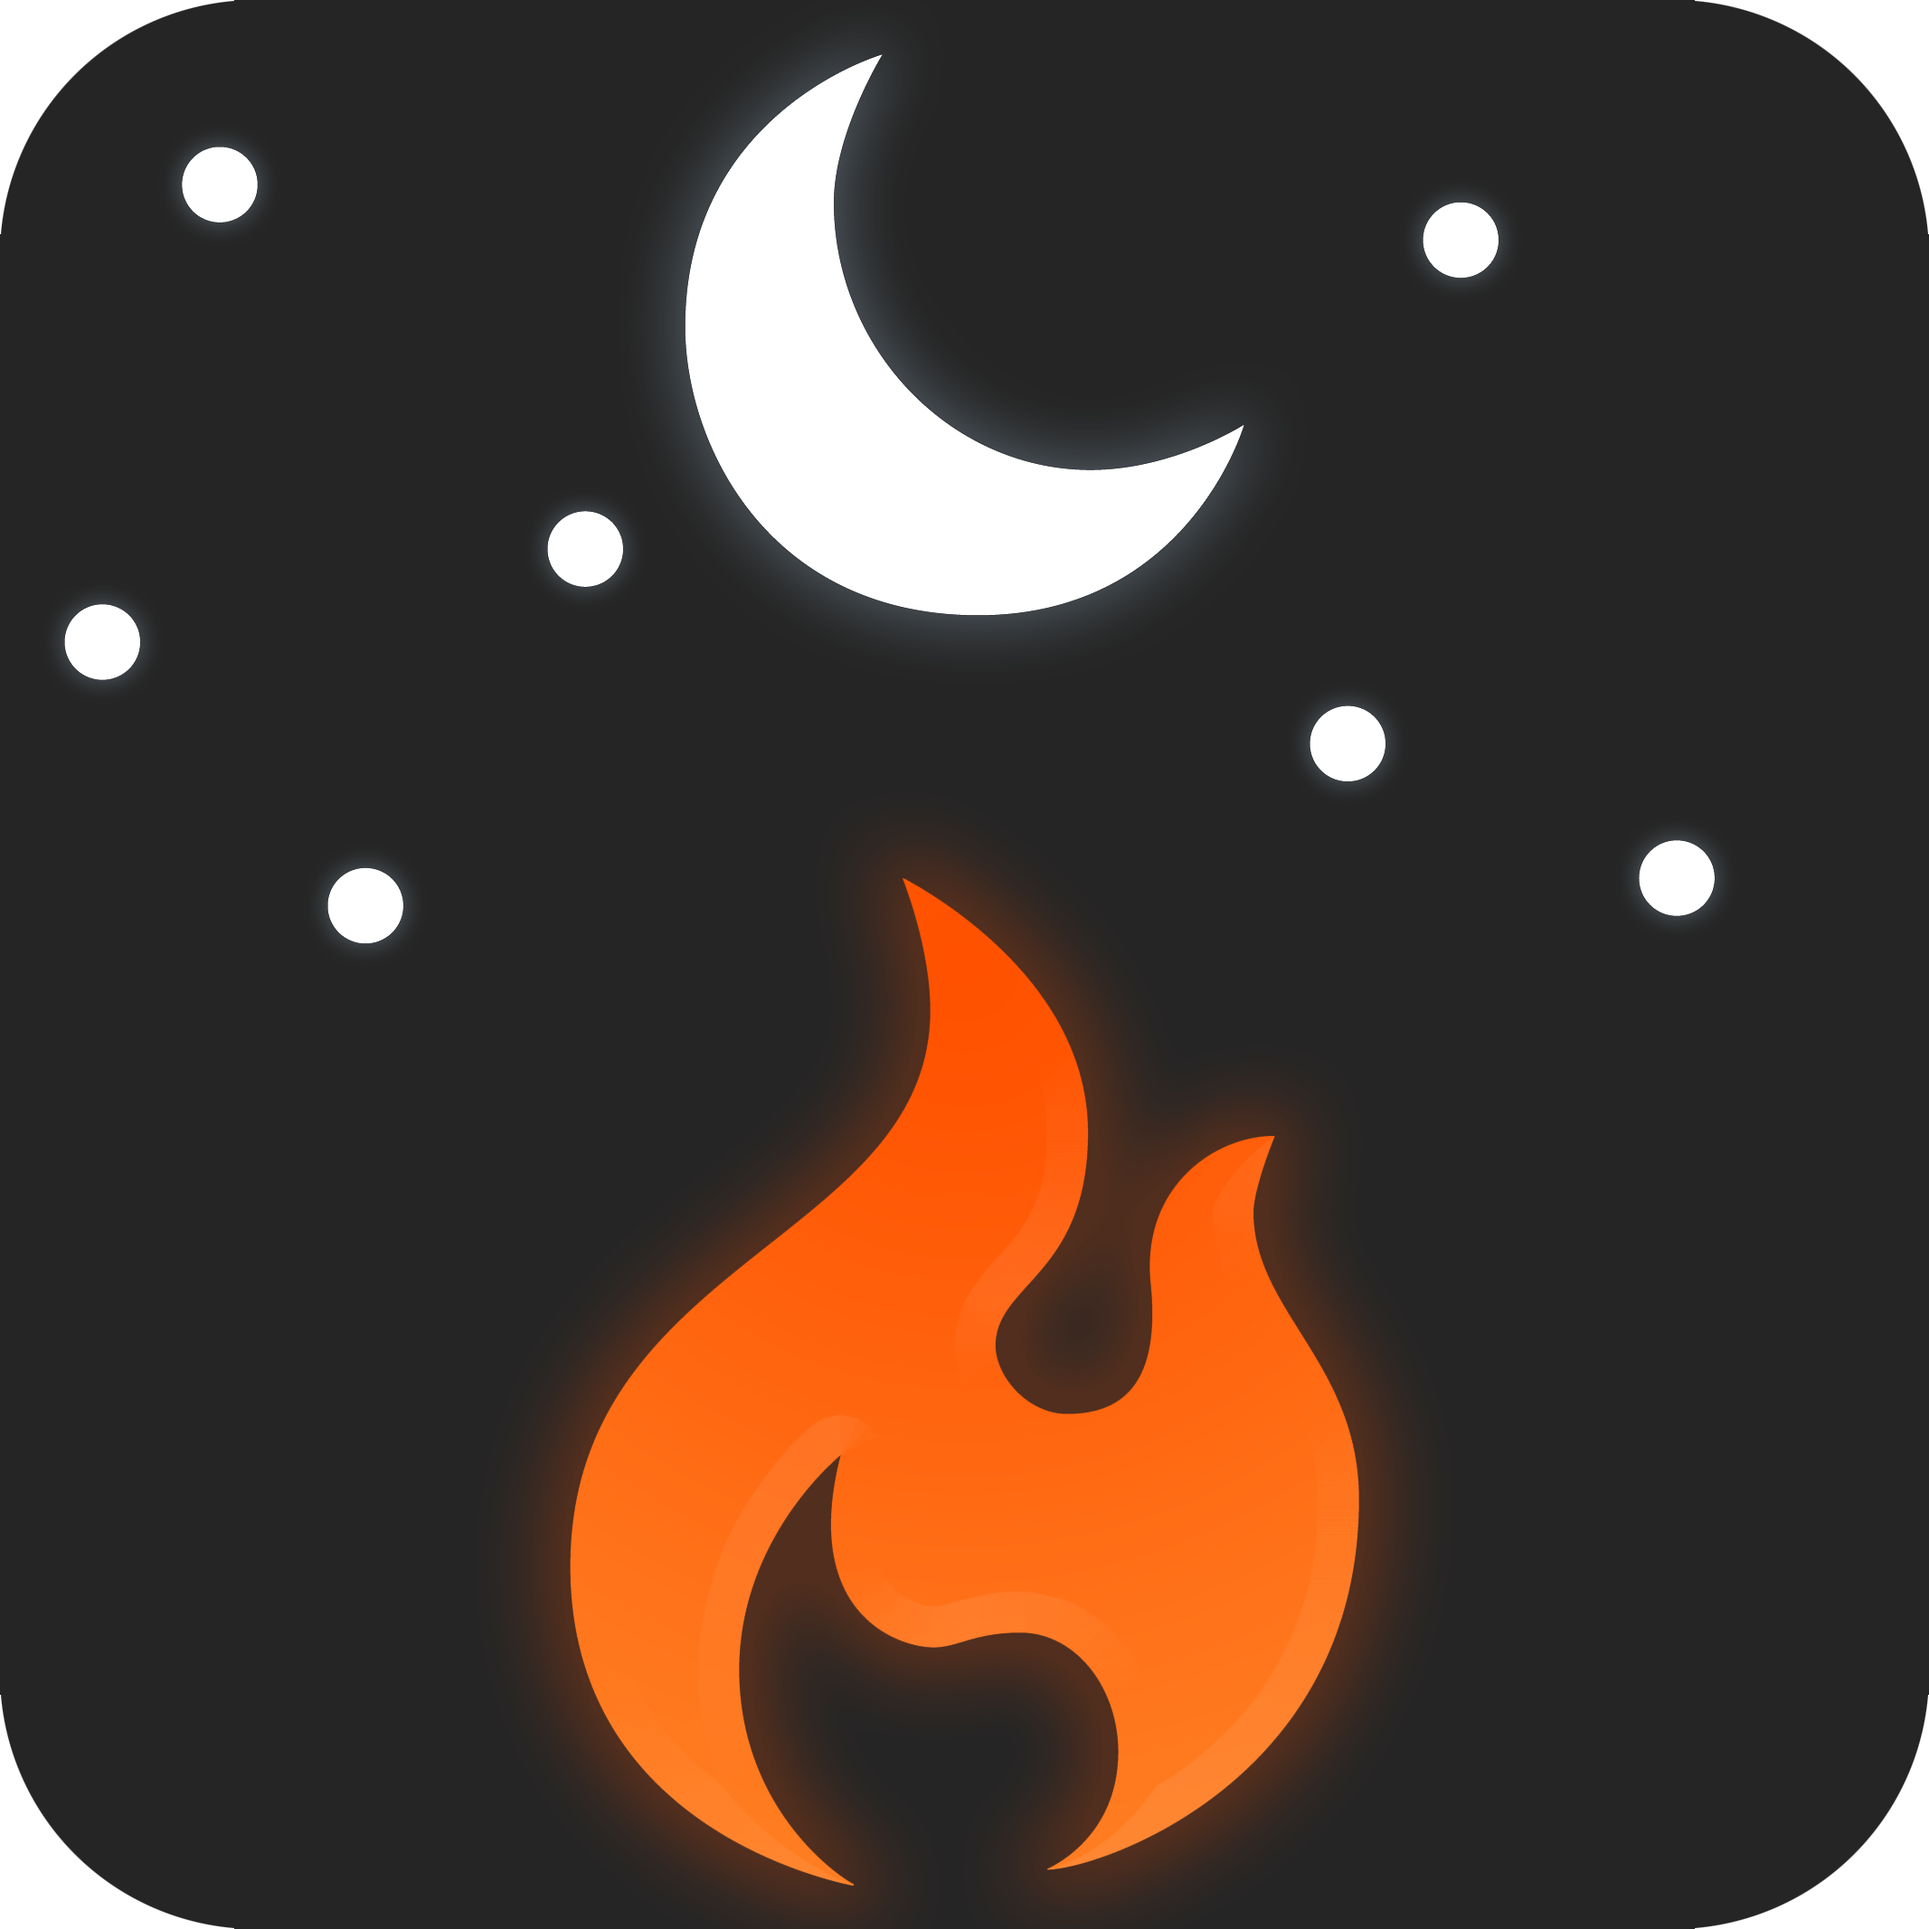
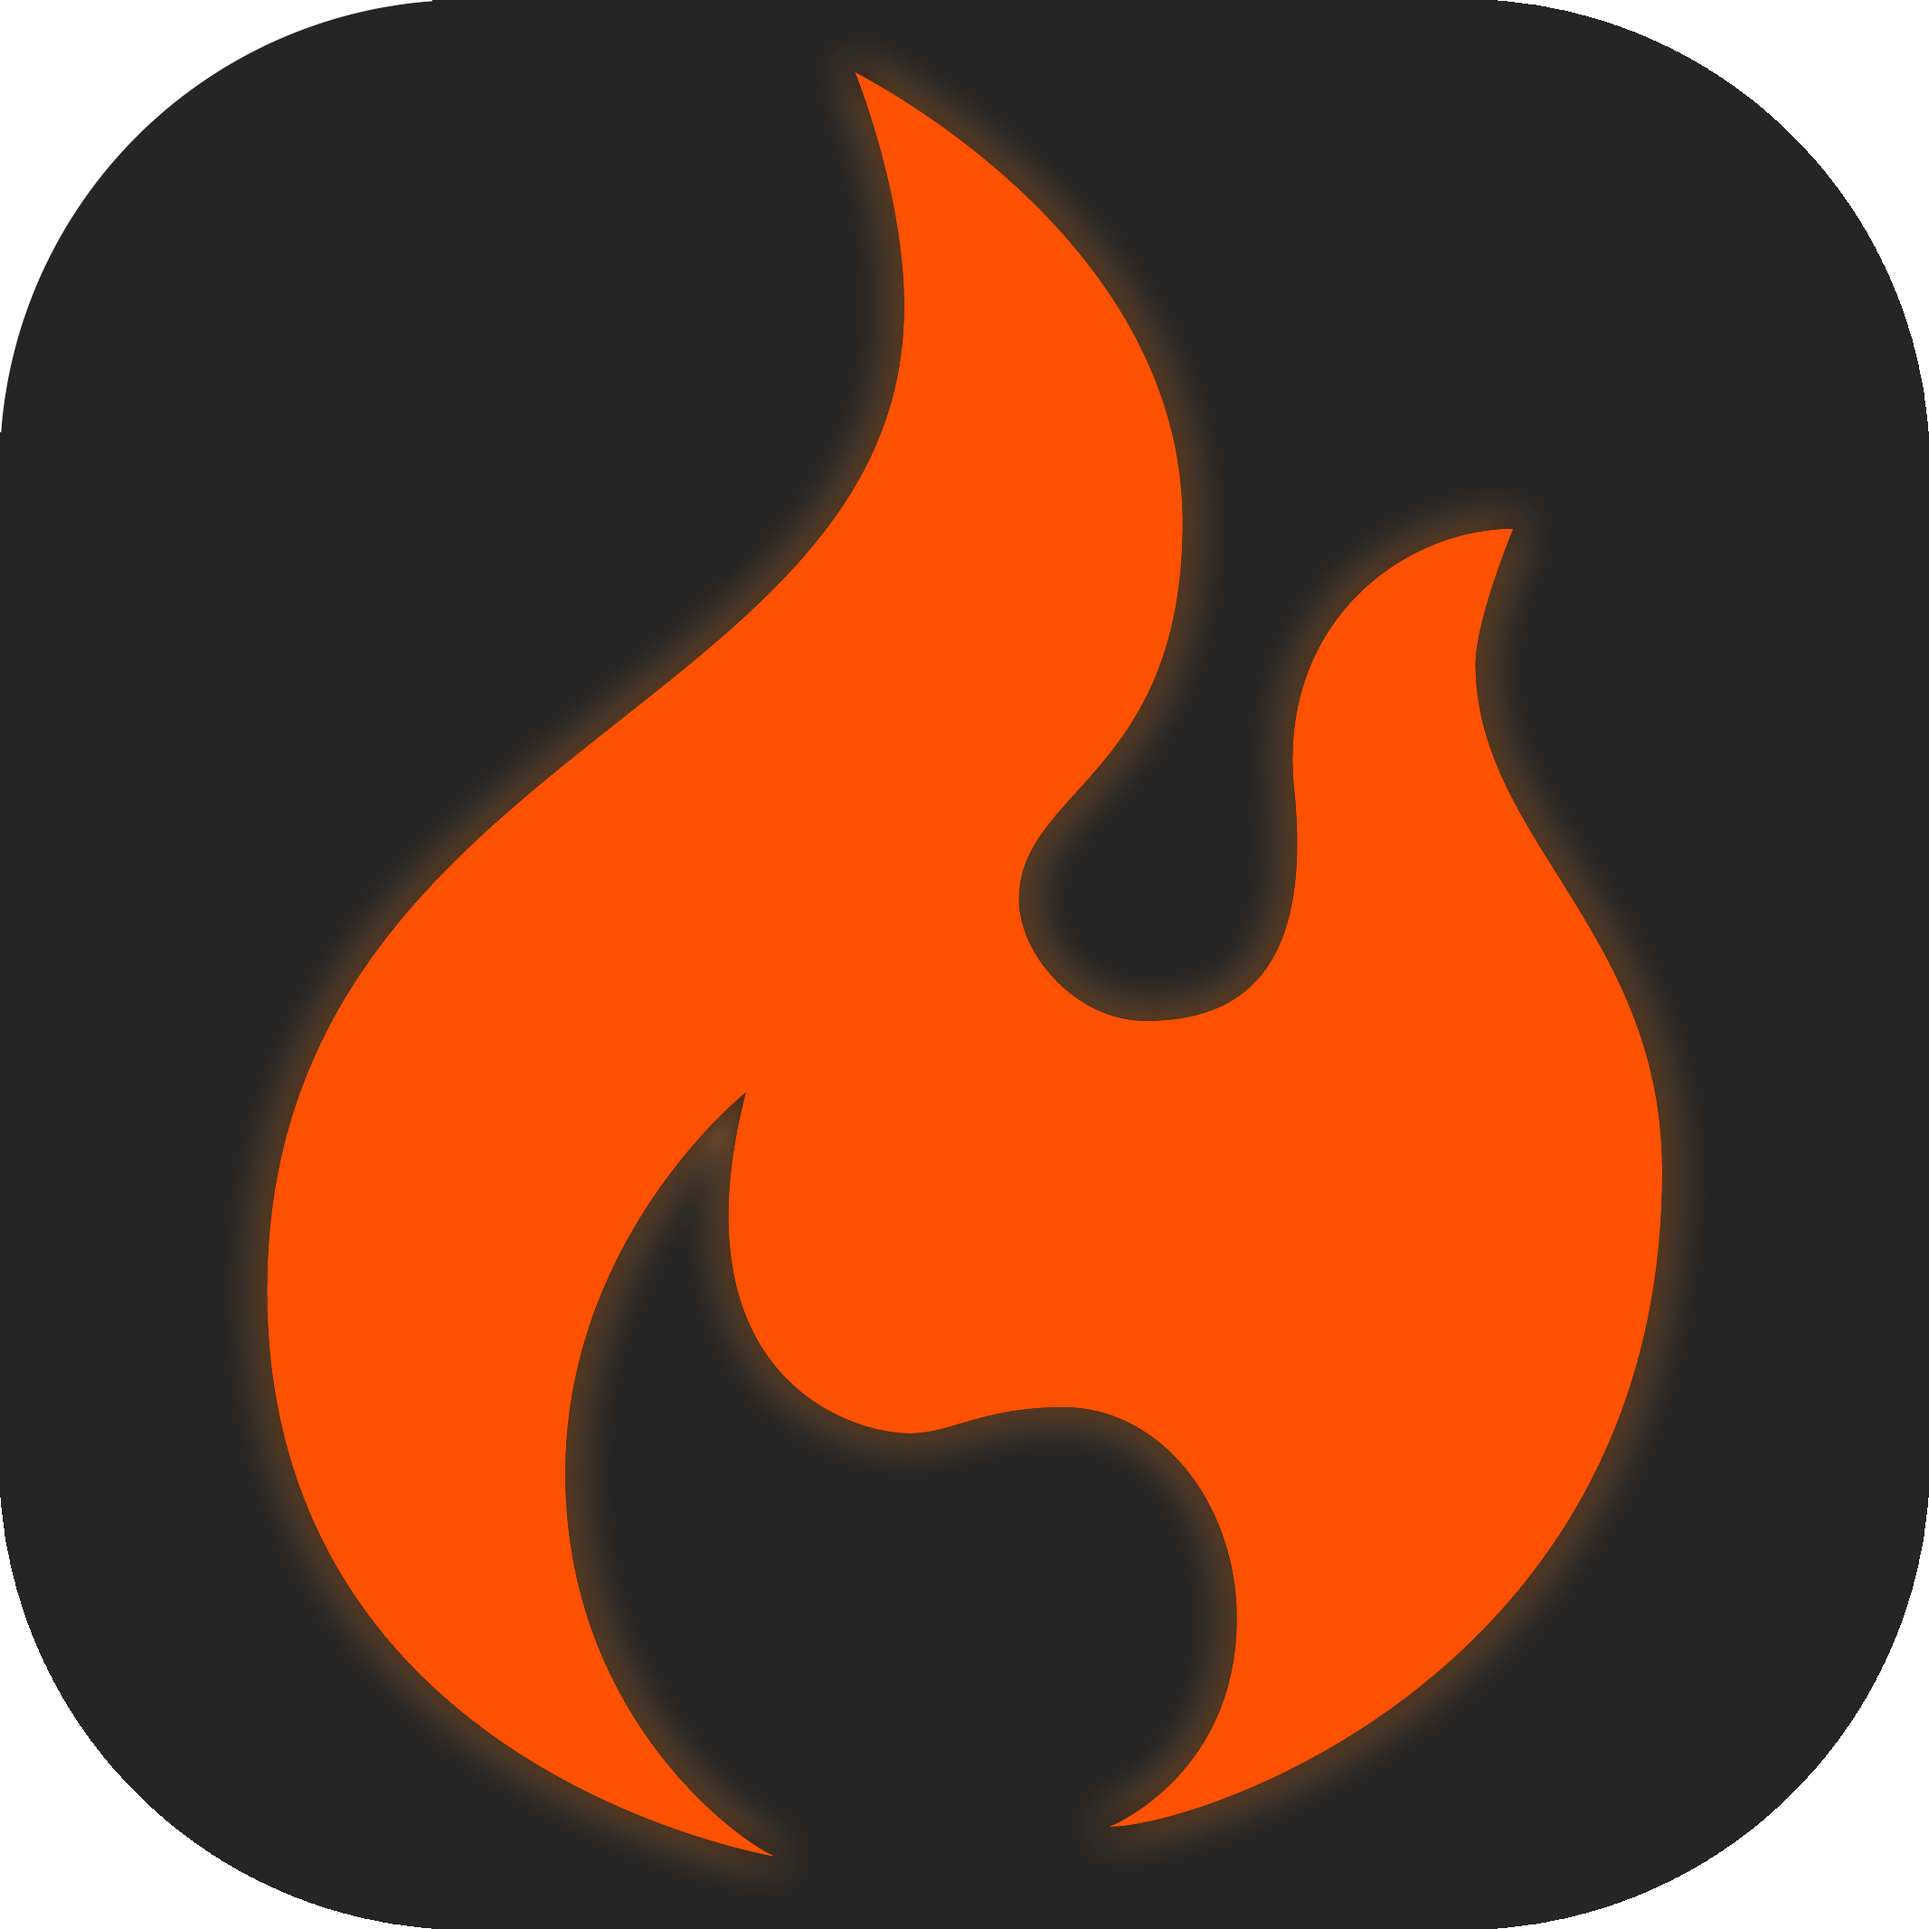
V 1.1.1
Updated Icon and README badges.

diff --git a/README.md b/README.md
@@ -4,8 +4,8 @@
 ![Example Image](images/preview.png)
 
 [![Github License](https://img.shields.io/badge/License-MIT-blue.svg)](https://github.com/Nicholas-LeClair/midnight-flames/blob/master/LICENSE)
-[![Github Release](https://img.shields.io/badge/Release-V1.0-green.svg)](https://github.com/Nicholas-LeClair/midnight-flames/releases)
-[![VS Code Download](https://img.shields.io/badge/VS_Code-V1.0-orange.svg)](https://marketplace.visualstudio.com/items?itemName=Nickal.midnight-flames)
+[![Github Release](https://img.shields.io/badge/Release-V1.1-green.svg)](https://github.com/Nicholas-LeClair/midnight-flames/releases)
+[![VS Code Download](https://img.shields.io/badge/VS_Code-V1.1-orange.svg)](https://marketplace.visualstudio.com/items?itemName=Nickal.midnight-flames)
 
 ## Description
 A clean dark theme with vibrant orange accents.

diff --git a/CHANGELOG.md b/CHANGELOG.md
@@ -8,3 +8,6 @@ Check [Keep a Changelog](http://keepachangelog.com/) for recommendations on how 
 
 ## V 1.1
 Fixed README badges.
+
+## V 1.1.1
+Updated Icon and README badges.
